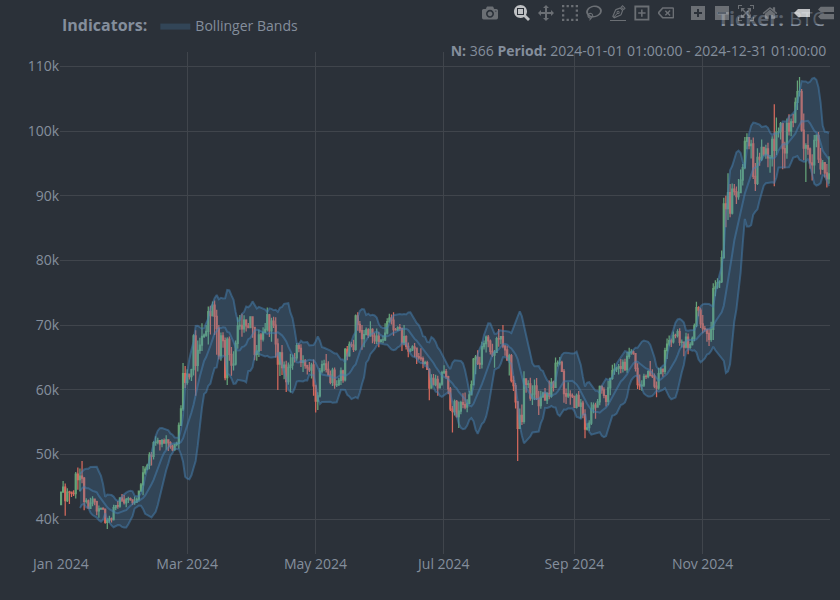
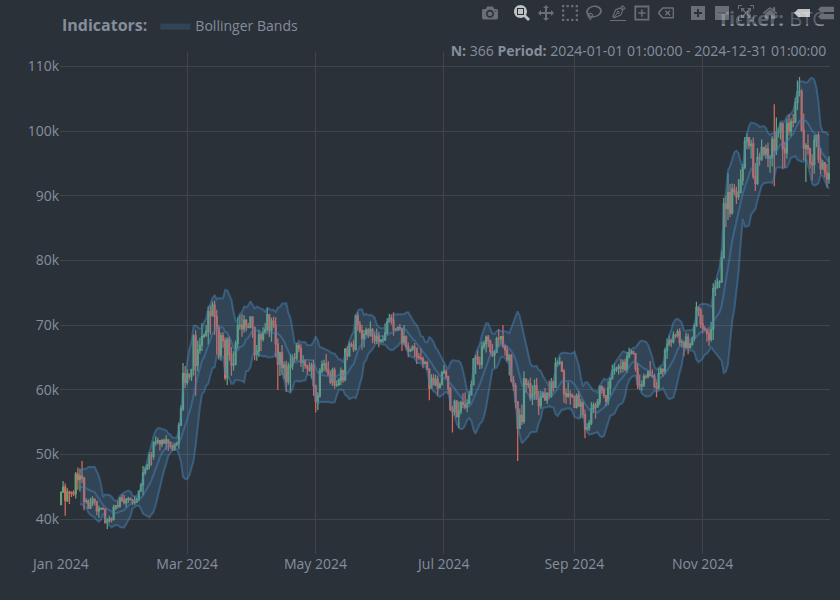
:books: Updated documentation
* From 40f72a5012e6ad18e313277be3f3c89e2a5719a3 the bollinger_bands have been slightly
  changed in color, this affects the README

* The SAR and SAREXT have been renamed so all all related .Rd files are
  also affected.

Changed region(s): [[0.0929, 0.12, 0.9905, 0.9], [0.619, 0.69, 0.65, 0.75], [0.2476, 0.48, 0.2786, 0.51]]

diff --git a/README.md b/README.md
@@ -81,13 +81,13 @@ tail(
         talib::BTC
     )
 )
-#>         upper   middle    lower
-#> 361 106812.14 99260.81 91709.48
-#> 362 104471.11 98218.27 91965.44
-#> 363 100874.66 97021.36 93168.05
-#> 364  99891.29 96519.09 93146.89
-#> 365  99875.94 96136.93 92397.91
-#> 366  99720.50 95622.57 91524.65
+#>                         upper   middle    lower
+#> 2024-12-26 01:00:00 104478.35 98217.88 91957.42
+#> 2024-12-27 01:00:00 100877.73 97020.16 93162.59
+#> 2024-12-28 01:00:00  99886.22 96516.01 93145.81
+#> 2024-12-29 01:00:00  99871.12 96134.41 92397.71
+#> 2024-12-30 01:00:00  99713.92 95620.42 91526.92
+#> 2024-12-31 01:00:00  99373.89 95236.42 91098.95
 ```
 
 ### Charting
